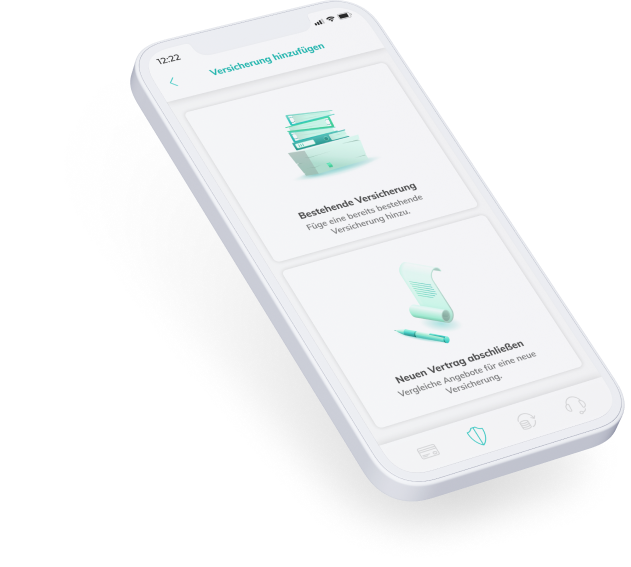
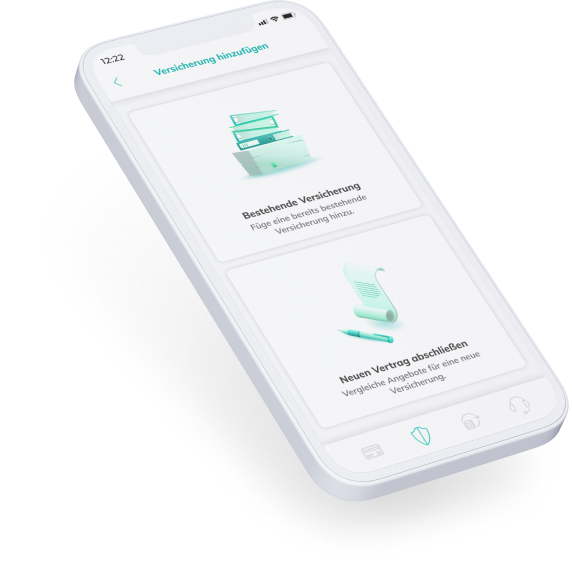
update .one-place Images

diff --git a/_layouts/home.html b/_layouts/home.html
@@ -296,26 +296,28 @@ styles:
   </section>
 
   <section class="one-place">
-    <div>
       <amp-img src="{{ 'assets/WechselGott/Circles.png' | relative_url }}"
                width="928" height="928"
                class="splash" layout="intrinsic"
                alt="Circles.png">
         <div placeholder style="background: transparent"></div>
+        <amp-img src="{{ 'assets/WechselGott/Phone1.png' | relative_url }}"
+                 width="525" height="600"
+                 layout="intrinsic"
+                 style="top: 8.6%; right: 10%;width: 56.6%;"
+                 alt="Phone1.png">
+          <div placeholder style="background: transparent"></div>
+        </amp-img>
+        <amp-img src="{{ 'assets/WechselGott/Phone2.png' | relative_url }}"
+                 width="572" height="567"
+                 layout="intrinsic"
+                 style="bottom: 0; left: 3%; width: 61.6%;"
+                 alt="Phone2.png">
+          <div placeholder style="background: transparent"></div>
+        </amp-img>
+
       </amp-img>
-      <amp-img src="{{ 'assets/WechselGott/Mockup1.png' | relative_url }}"
-               width="678" height="580"
-               layout="intrinsic"
-               alt="Mockup1.png">
-        <div placeholder style="background: transparent"></div>
-      </amp-img>
-      <amp-img src="{{ 'assets/WechselGott/Phone2.png' | relative_url }}"
-               width="626" height="540"
-               layout="intrinsic"
-               alt="Phone2.png">
-        <div placeholder style="background: transparent"></div>
-      </amp-img>
-    </div>
+
     <h4>Vereine all Deine Konten und Verträge
       am selben Ort.</h4>
     {% include cta-button.html %}

diff --git a/_includes/styles/home.scss b/_includes/styles/home.scss
@@ -1,4 +1,4 @@
-.home .page{
+.home .page {
   position: relative;
 
   .first-img {
@@ -290,29 +290,15 @@
   }
 
   .one-place {
-
-    div {
+    > amp-img {
+      display: block;
       position: relative;
+      width: 928px;
+      margin: auto;
 
-      amp-img {
+      > amp-img {
         position: absolute;
-
-        &:nth-child(1) {
-          display: block;
-          position: inherit;
-          width: 928px;
-          margin: auto;
-        }
-
-        &:nth-child(2) {
-          top: 80px;
-          right: 0;
-        }
-
-        &:nth-child(3) {
-          bottom: -70px;
-          left: 129px;
-        }
+        z-index: 1;
       }
     }
 
